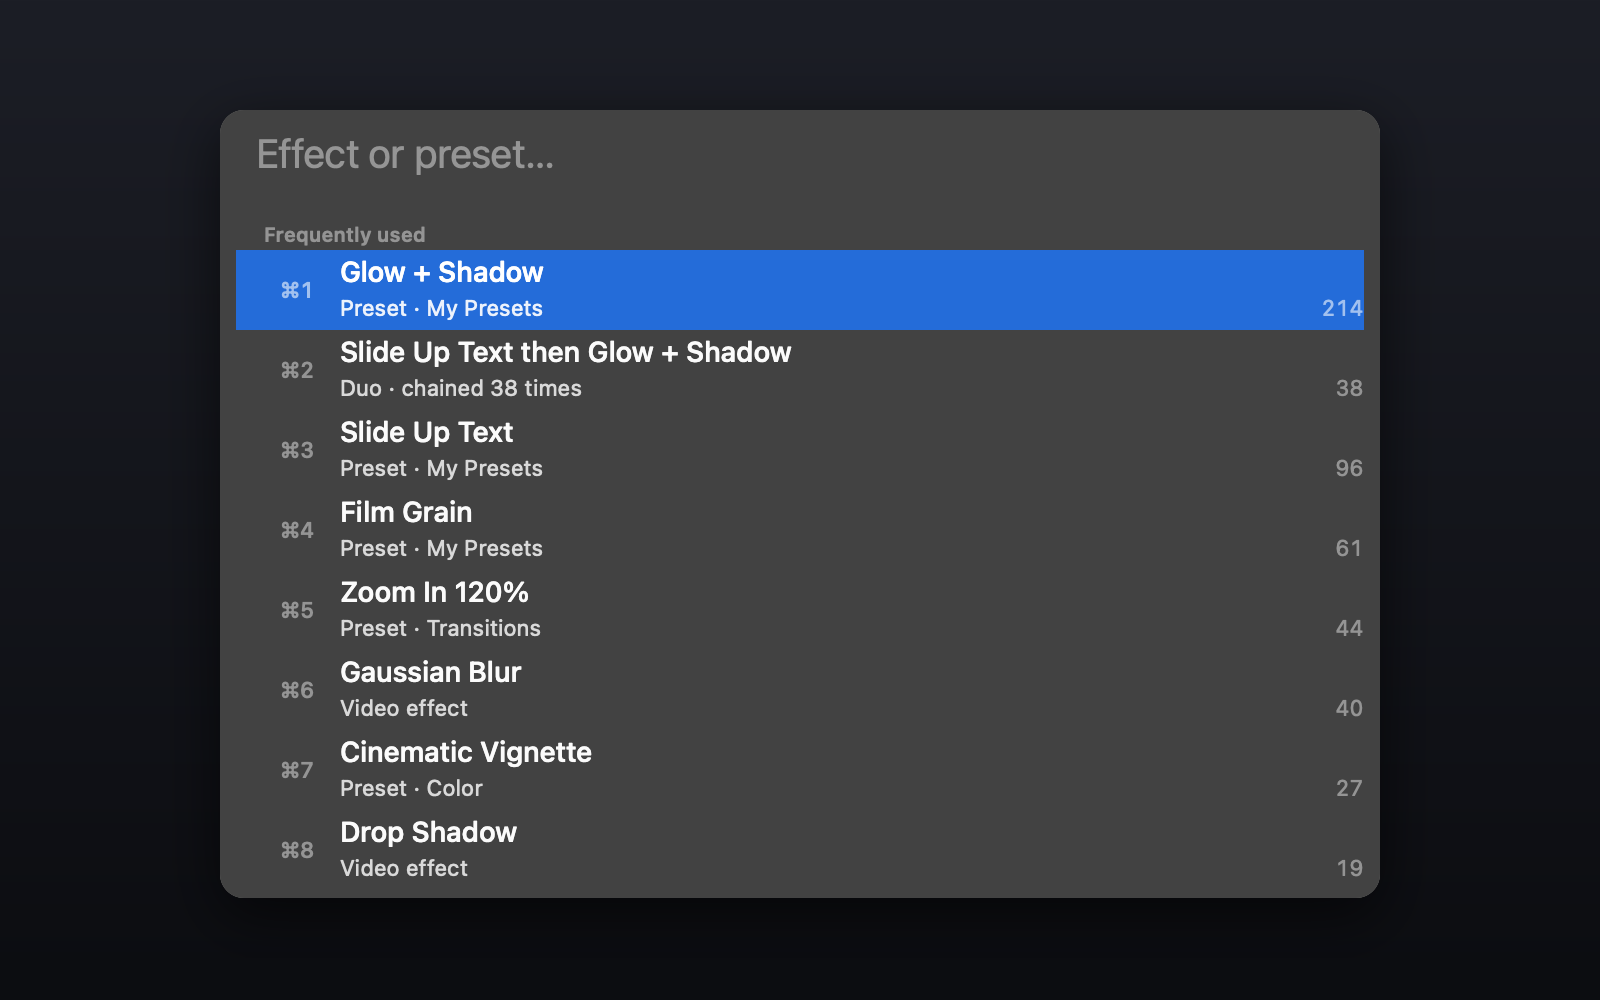
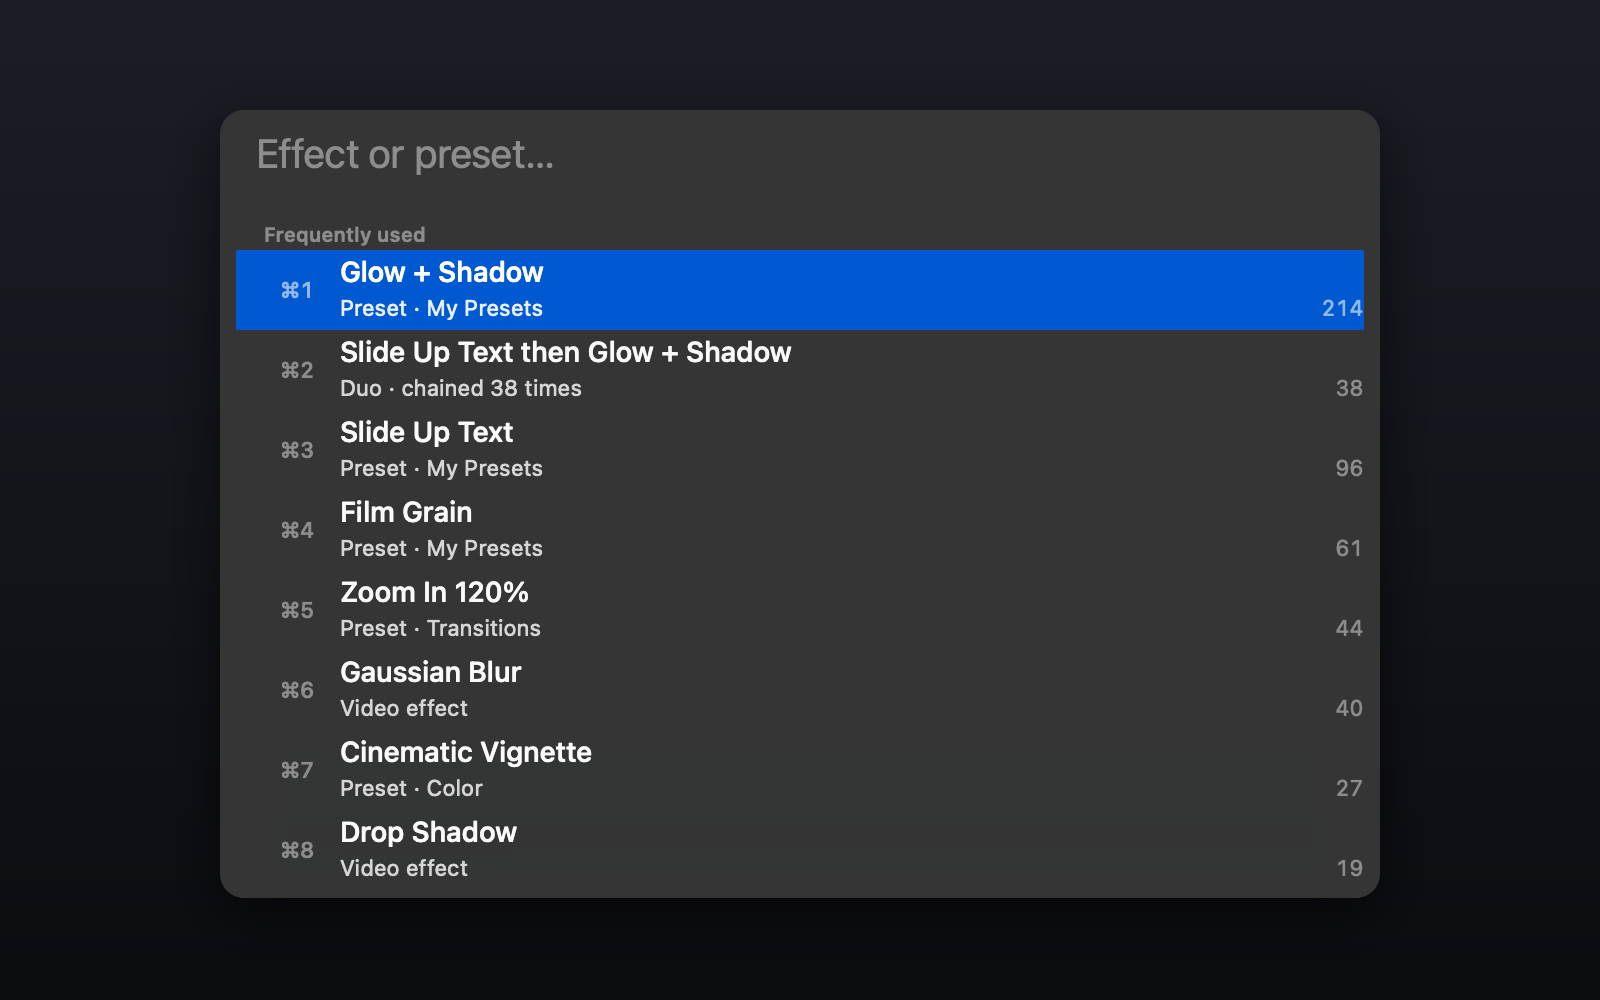
Palette: solid background matching the screenshots; regenerated images

Changed region(s): [[0.125, 0.248, 0.875, 0.341]]

diff --git a/helper/Sources/Khanjar/Palette/PaletteWindow.swift b/helper/Sources/Khanjar/Palette/PaletteWindow.swift
@@ -84,12 +84,10 @@ final class PaletteWindowController: NSObject, NSTextFieldDelegate, NSTableViewD
         panel.hidesOnDeactivate = false
         panel.onCancel = { [weak self] in self?.hide() }
 
-        let background = NSVisualEffectView()
-        background.material = .menu
-        background.state = .active
-        background.wantsLayer = true
-        background.layer?.cornerRadius = 12
-        background.layer?.masksToBounds = true
+        // Fond UNI, comme sur les images du site (2026-10-07, demande d'Isma) : le
+        // verre translucide (.menu) laissait voir Premiere en flou derrière, plus
+        // difficile à lire et différent de ce que montre la page GitHub.
+        let background = PaletteBackgroundView()
         panel.contentView = background
 
         // Champ de recherche
@@ -157,6 +155,10 @@ final class PaletteWindowController: NSObject, NSTextFieldDelegate, NSTableViewD
 
     func show() {
         isClosing = false
+        // Calque activé à l'affichage (et pas à la création) : les animations pop en
+        // ont besoin à l'écran, mais hors écran il empêchait de dessiner la ligne
+        // sélectionnée dans les images du README (constaté le 2026-10-07).
+        panel.contentView?.wantsLayer = true
         field.stringValue = ""
         // Champ vide = classement fréquence + récence, prêt à l'emploi : la
         // palette ne s'ouvre plus sur une liste vide qui attend une frappe.
@@ -232,14 +234,21 @@ final class PaletteWindowController: NSObject, NSTextFieldDelegate, NSTableViewD
     /// Documentation : la palette telle qu'elle s'afficherait pour `query`
     /// (champ vide = fréquents), rendue hors écran. Voir Snapshot / render-media.
     func snapshotPNG(query: String, dark: Bool) -> Data? {
+        // Apparence posée AVANT de remplir la liste : en changer après recrée les
+        // lignes et efface la sélection forcée ci-dessous.
+        panel.appearance = NSAppearance(named: dark ? .darkAqua : .aqua)
         field.stringValue = query
         refresh()
+        panel.contentView?.layoutSubtreeIfNeeded()
         // Hors écran la fenêtre n'est pas « active » : la sélection se dessinerait
         // éteinte. On la montre comme dans l'app, où la palette a le focus.
-        if !results.isEmpty { table.rowView(atRow: 0, makeIfNecessary: true)?.isEmphasized = true }
+        if !results.isEmpty, let row = table.rowView(atRow: 0, makeIfNecessary: true) {
+            row.isEmphasized = true
+            row.needsDisplay = true
+        }
         guard let view = panel.contentView else { return nil }
-        let tint = dark ? NSColor(calibratedWhite: 0.16, alpha: 0.97) : NSColor(calibratedWhite: 0.985, alpha: 0.97)
-        return Snapshot.png(of: view, dark: dark, backdrop: tint)
+        // Le fond est désormais peint par la vue elle-même : le rendu = l'app.
+        return Snapshot.png(of: view, dark: dark)
     }
 
     func toggle() {
@@ -328,6 +337,10 @@ final class PaletteWindowController: NSObject, NSTextFieldDelegate, NSTableViewD
 
     func numberOfRows(in tableView: NSTableView) -> Int { results.count }
 
+    func tableView(_ tableView: NSTableView, rowViewForRow row: Int) -> NSTableRowView? {
+        PaletteRowView()
+    }
+
     func tableView(_ tableView: NSTableView, viewFor tableColumn: NSTableColumn?, row: Int) -> NSView? {
         let entry = results[row]
         let cell = NSTableCellView()
@@ -395,5 +408,47 @@ final class PaletteWindowController: NSObject, NSTextFieldDelegate, NSTableViewD
             if parts.count == 2, let a = Int(parts[0]), let b = Int(parts[1]), a < b { incomplete = true }
         }
         return incomplete ? L("partial") : nil
+    }
+}
+
+/// Fond de la palette : gris uni, arrondi, qui suit l'apparence (sombre / clair).
+/// Dessiné en draw(_:) (et non en propriété de calque) pour que le rendu hors écran
+/// des images du README (Snapshot) soit identique, pixel pour pixel, à l'écran.
+final class PaletteBackgroundView: NSView {
+    static let darkFill = NSColor(calibratedWhite: 0.16, alpha: 0.97)
+    static let lightFill = NSColor(calibratedWhite: 0.985, alpha: 0.97)
+    static let cornerRadius: CGFloat = 12
+
+    override var isOpaque: Bool { false }
+
+    override func draw(_ dirtyRect: NSRect) {
+        let dark = effectiveAppearance.bestMatch(from: [.darkAqua, .aqua]) == .darkAqua
+        (dark ? Self.darkFill : Self.lightFill).setFill()
+        NSBezierPath(roundedRect: bounds, xRadius: Self.cornerRadius, yRadius: Self.cornerRadius).fill()
+    }
+
+    override func viewDidChangeEffectiveAppearance() {
+        super.viewDidChangeEffectiveAppearance()
+        needsDisplay = true
+    }
+}
+
+/// Ligne de la palette : la sélection est peinte ici, en bleu plein comme sur le site.
+/// AppKit ne la dessinait pas dans le rendu hors écran des images (le texte passait
+/// en blanc mais le fond bleu manquait) ; la peindre soi-même rend l'écran et les
+/// images identiques.
+final class PaletteRowView: NSTableRowView {
+    override func drawSelection(in dirtyRect: NSRect) {
+        guard selectionHighlightStyle != .none else { return }
+        (isEmphasized ? NSColor.selectedContentBackgroundColor : NSColor.unemphasizedSelectedContentBackgroundColor).setFill()
+        bounds.fill()
+    }
+
+    override func draw(_ dirtyRect: NSRect) {
+        super.draw(dirtyRect)
+        // Hors écran, drawSelection n'est pas toujours appelé par AppKit.
+        if isSelected, NSGraphicsContext.current?.isDrawingToScreen == false {
+            drawSelection(in: dirtyRect)
+        }
     }
 }
